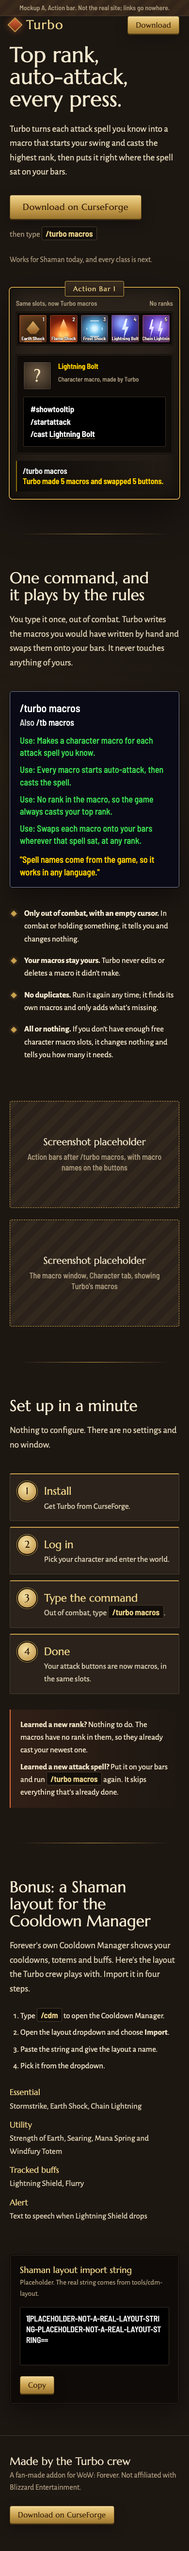
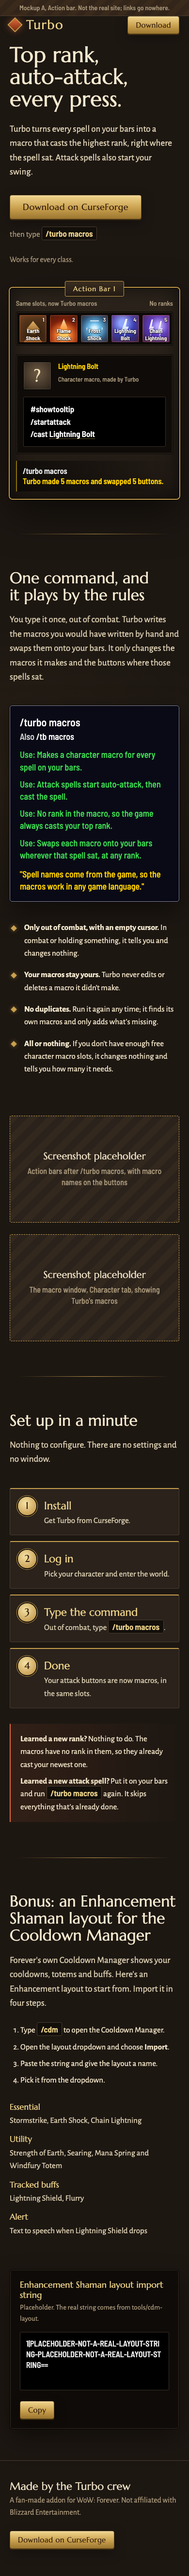
docs(web): address review on mockups (#39)
- Copy now describes /turbo macros after #51 (every spell on your bars,
  every class); each such line carries a NEEDS #51 comment with today's
  wording.
- Say Turbo changes its own macros and the buttons it swaps, not nothing.
- Cooldown Manager section: call it an Enhancement layout, drop "the
  layout the crew plays with", mark it UNTESTED until the import is checked.
- "Macros work in any game language" (Turbo's own text is English).
- Mobile action-bar labels go from 10/11px to 12px and wrap.
- README: note self-hosted fonts and a pausable hero for the real build.
- Re-render the four PNGs.

diff --git a/docs/mockups/turbo-site/direction-a-action-bar.html b/docs/mockups/turbo-site/direction-a-action-bar.html
@@ -236,8 +236,8 @@
     .hero .lede { font-size: 19px; }
     .frame { padding: 24px 12px 14px; }
     .bar { gap: 5px; padding: 5px; }
-    .slot .mname, .slot .rank { font-size: 10px; }
-    .slot .key { font-size: 11px; }
+    .slot .mname, .slot .rank { white-space: normal; line-height: 1.2; bottom: 2px; }
+    .slot .key { font-size: 12px; }
     .editor pre { font-size: 17px; }
     section { padding: 64px 0; }
     .features, .cdm, .shots { grid-template-columns: 1fr; }
@@ -270,13 +270,14 @@
   <div class="wrap hero">
     <div>
       <h1>Top rank, auto-attack, every press.</h1>
-      <p class="lede">Turbo turns each attack spell you know into a macro that starts your swing and casts the highest rank, then puts it right where the spell sat on your bars.</p>
+      <!-- NEEDS #51: true once /turbo macros covers every spell on your bars, every class. Today (main): "each Shaman shock and lightning spell", and every macro starts your swing. -->
+      <p class="lede">Turbo turns every spell on your bars into a macro that casts the highest rank, right where the spell sat. Attack spells also start your swing.</p>
       <div class="hero-cta">
         <a class="btn" href="#">Download on CurseForge</a>
         <span class="then">then type <kbd>/turbo macros</kbd></span>
       </div>
-      <!-- SCOPE LINE: one sentence, swap when #51 (every class) ships. -->
-      <p class="scope-line">Works for Shaman today, and every class is next.</p>
+      <!-- SCOPE LINE / NEEDS #51: true once #51 (every class) ships. Today (main): "Works for Shaman today, and every class is next." -->
+      <p class="scope-line">Works for every class.</p>
     </div>
 
     <div class="frame" role="img" aria-label="An action bar with five Shaman attack spells. Each button swaps from a ranked spell to a Turbo macro, and the chat says: Turbo made 5 macros and swapped 5 buttons.">
@@ -310,16 +311,17 @@
   <section id="what">
     <div class="wrap">
       <h2>One command, and it plays by the rules</h2>
-      <p class="section-lede">You type it once, out of combat. Turbo writes the macros you would have written by hand and swaps them onto your bars. It never touches anything of yours.</p>
+      <p class="section-lede">You type it once, out of combat. Turbo writes the macros you would have written by hand and swaps them onto your bars. It only changes the macros it makes and the buttons where those spells sat.</p>
       <div class="features">
         <div class="tooltip">
           <p class="t-name">/turbo macros</p>
           <p class="t-sub">Also <span style="color:#fff">/tb macros</span></p>
-          <p class="t-use">Use: Makes a character macro for each attack spell you know.</p>
-          <p class="t-use">Use: Every macro starts auto-attack, then casts the spell.</p>
+          <!-- NEEDS #51: true once /turbo macros covers every spell on your bars, every class. Today (main): "Makes a character macro for each Shaman shock and lightning spell." and "Every macro starts auto-attack, then casts the spell.". -->
+          <p class="t-use">Use: Makes a character macro for every spell on your bars.</p>
+          <p class="t-use">Use: Attack spells start auto-attack, then cast the spell.</p>
           <p class="t-use">Use: No rank in the macro, so the game always casts your top rank.</p>
           <p class="t-use">Use: Swaps each macro onto your bars wherever that spell sat, at any rank.</p>
-          <p class="t-flavor">"Spell names come from the game, so it works in any language."</p>
+          <p class="t-flavor">"Spell names come from the game, so the macros work in any game language."</p>
         </div>
         <ul class="rules">
           <li><strong>Only out of combat, with an empty cursor.</strong> In combat or holding something, it tells you and changes nothing.</li>
@@ -364,8 +366,9 @@
   <section id="cdm">
     <div class="wrap cdm">
       <div>
-        <h2>Bonus: a Shaman layout for the Cooldown Manager</h2>
-        <p class="section-lede" style="margin-bottom:28px">Forever's own Cooldown Manager shows your cooldowns, totems and buffs. Here's the layout the Turbo crew plays with. Import it in four steps.</p>
+        <!-- UNTESTED: the tools/cdm-layout import isn't checked in game yet. Keep this section off the real site until it is. -->
+        <h2>Bonus: an Enhancement Shaman layout for the Cooldown Manager</h2>
+        <p class="section-lede" style="margin-bottom:28px">Forever's own Cooldown Manager shows your cooldowns, totems and buffs. Here's an Enhancement layout to start from. Import it in four steps.</p>
         <ol>
           <li>Type <kbd>/cdm</kbd> to open the Cooldown Manager.</li>
           <li>Open the layout dropdown and choose <strong>Import</strong>.</li>
@@ -380,7 +383,7 @@
         </dl>
       </div>
       <div class="import">
-        <label for="import-a">Shaman layout import string</label>
+        <label for="import-a">Enhancement Shaman layout import string</label>
         <p class="hint">Placeholder. The real string comes from tools/cdm-layout.</p>
         <textarea id="import-a" readonly>1|PLACEHOLDER-NOT-A-REAL-LAYOUT-STRING-PLACEHOLDER-NOT-A-REAL-LAYOUT-STRING==</textarea>
         <div class="row">

diff --git a/docs/mockups/turbo-site/direction-b-three-lines.html b/docs/mockups/turbo-site/direction-b-three-lines.html
@@ -195,14 +195,15 @@
     </figure>
 
     <div class="intro">
-      <h1>The macro you'd write yourself, made for every attack spell you know.</h1>
+      <!-- NEEDS #51: true once /turbo macros covers every spell on your bars, every class. Today (main): "made for every Shaman shock and lightning spell" and "these three lines for each of them". -->
+      <h1>The macro you'd write yourself, made for every spell on your bars.</h1>
       <div>
-        <p class="lede">Type <kbd>/turbo macros</kbd> once, out of combat. Turbo writes these three lines for each attack spell and puts every macro where that spell sat on your bars.</p>
+        <p class="lede">Type <kbd>/turbo macros</kbd> once, out of combat. Turbo writes these three lines for each attack spell, a plain cast macro for every other spell, and puts every macro where that spell sat on your bars.</p>
         <div class="cta">
           <a class="btn" href="#">Download on CurseForge</a>
         </div>
-        <!-- SCOPE LINE: one sentence, swap when #51 (every class) ships. -->
-        <p class="scope-line">Works for Shaman today, and every class is next.</p>
+        <!-- SCOPE LINE / NEEDS #51: true once #51 (every class) ships. Today (main): "Works for Shaman today, and every class is next." -->
+        <p class="scope-line">Works for every class.</p>
       </div>
     </div>
   </div>
@@ -211,15 +212,16 @@
     <div class="wrap">
       <div class="head">
         <h2>It does one thing, carefully.</h2>
-        <p class="lede-s">There are no settings and no window. You run one command; Turbo changes only what it made.</p>
+        <p class="lede-s">There are no settings and no window. You run one command; Turbo changes only its own macros and the buttons where those spells sat.</p>
       </div>
       <div class="two">
         <div>
           <h3>What it does</h3>
           <ul class="plain">
-            <li>Makes a character macro for each attack spell you know: Earth, Flame and Frost Shock, Lightning Bolt and Chain Lightning.</li>
+            <!-- NEEDS #51: true once /turbo macros covers every spell on your bars, every class. Today (main): "Makes a character macro for each Shaman attack spell: Earth, Flame and Frost Shock, Lightning Bolt and Chain Lightning.". -->
+            <li>Makes a character macro for every spell on your bars. Attack spells also start auto-attack.</li>
             <li>Swaps each macro onto your action bars wherever that spell sat, at any rank.</li>
-            <li>Uses the spell names from your game, so it works in any language.</li>
+            <li>Uses the spell names from your game, so the macros work in any game language.</li>
             <li>Also answers to <kbd>/tb macros</kbd>.</li>
           </ul>
         </div>
@@ -269,8 +271,9 @@
   <section id="cdm" class="cdm">
     <div class="wrap cdm-grid">
       <div>
-        <h2>Bonus: our Shaman layout for the Cooldown Manager.</h2>
-        <p class="lede-s">Forever's own Cooldown Manager tracks your cooldowns, totems and buffs. This is the layout the Turbo crew plays with.</p>
+        <!-- UNTESTED: the tools/cdm-layout import isn't checked in game yet. Keep this section off the real site until it is. -->
+        <h2>Bonus: an Enhancement Shaman layout for the Cooldown Manager.</h2>
+        <p class="lede-s">Forever's own Cooldown Manager tracks your cooldowns, totems and buffs. Here's an Enhancement layout to start from.</p>
         <ol>
           <li>Type <kbd>/cdm</kbd> to open the Cooldown Manager.</li>
           <li>Open the layout dropdown and choose <strong>Import</strong>.</li>
@@ -284,7 +287,7 @@
         </table>
       </div>
       <div class="import">
-        <label for="import-b">Shaman layout import string</label>
+        <label for="import-b">Enhancement Shaman layout import string</label>
         <p class="hint">Placeholder. The real string comes from tools/cdm-layout.</p>
         <textarea id="import-b" readonly>1|PLACEHOLDER-NOT-A-REAL-LAYOUT-STRING-PLACEHOLDER-NOT-A-REAL-LAYOUT-STRING==</textarea>
         <div class="row">
@@ -307,7 +310,7 @@
 </footer>
 
 <script>
-  // The hero's one motion: the spell name cycles through the Shaman kit.
+  // The hero's one motion: the spell name cycles through five Shaman attack spells.
   (function () {
     var spells = ['Lightning Bolt', 'Earth Shock', 'Flame Shock', 'Frost Shock', 'Chain Lightning'];
     var el = document.getElementById('spell');

diff --git a/docs/mockups/turbo-site/README.md b/docs/mockups/turbo-site/README.md
@@ -43,14 +43,20 @@ italic for the notes and captions, Fragment Mono for things you type or paste.
 ## For the owner to confirm
 
 - **Headline.** A: "Top rank, auto-attack, every press." B: "The macro you'd
-  write yourself, made for every attack spell you know." Either one works on
+  write yourself, made for every spell on your bars." Either one works on
   either page.
-- **The scope line.** Both pages say "Works for Shaman today, and every class
-  is next." It's one sentence in one element, marked with a
-  `<!-- SCOPE LINE -->` comment. Swap it when #51 ships. B's "What it does"
-  list also names the five Shaman spells; drop that clause at the same time.
+- **The copy describes Turbo after #51.** Both pages say what `/turbo macros`
+  does once #51 ships: a macro for every spell on your bars, every class, with
+  `/startattack` only on attack spells. The scope line now says "Works for
+  every class." Each sentence that needs #51 has a `<!-- NEEDS #51 -->` (or
+  `<!-- SCOPE LINE / NEEDS #51 -->`) comment holding the wording that is true
+  on `main` today (five Shaman shock and lightning spells, Shaman only). If
+  the site goes up before #51, swap those back.
 - **The Cooldown Manager bonus.** Should the site link a Turbo-made layout
-  for Blizzard's own UI at all? If yes, the real import string comes from
+  for Blizzard's own UI at all? It's an Enhancement Shaman layout, and its
+  import isn't checked in game yet (`tools/cdm-layout/README.md`), so the
+  section is marked `<!-- UNTESTED -->`: keep it off the real site until
+  someone imports it in the beta client. The real import string comes from
   `bun tools/cdm-layout/build.ts`. The mockups use a fake `1|PLACEHOLDER...`
   string with a Copy button, and the layout summary comes from
   `tools/cdm-layout/README.md`.
@@ -61,3 +67,10 @@ italic for the notes and captions, Fragment Mono for things you type or paste.
   anywhere.
 - **Screenshots.** Both pages ask for two: the action bars after
   `/turbo macros`, and the macro window's Character tab.
+
+## For the real build
+
+- **Self-host the fonts.** The mockups load them from Google Fonts, which
+  sends each visitor's IP to Google.
+- **Let the hero animation stop.** B's spell name cycles forever (A's bar
+  swaps once). Stop it after one lap or add a pause button (WCAG 2.2.2).
